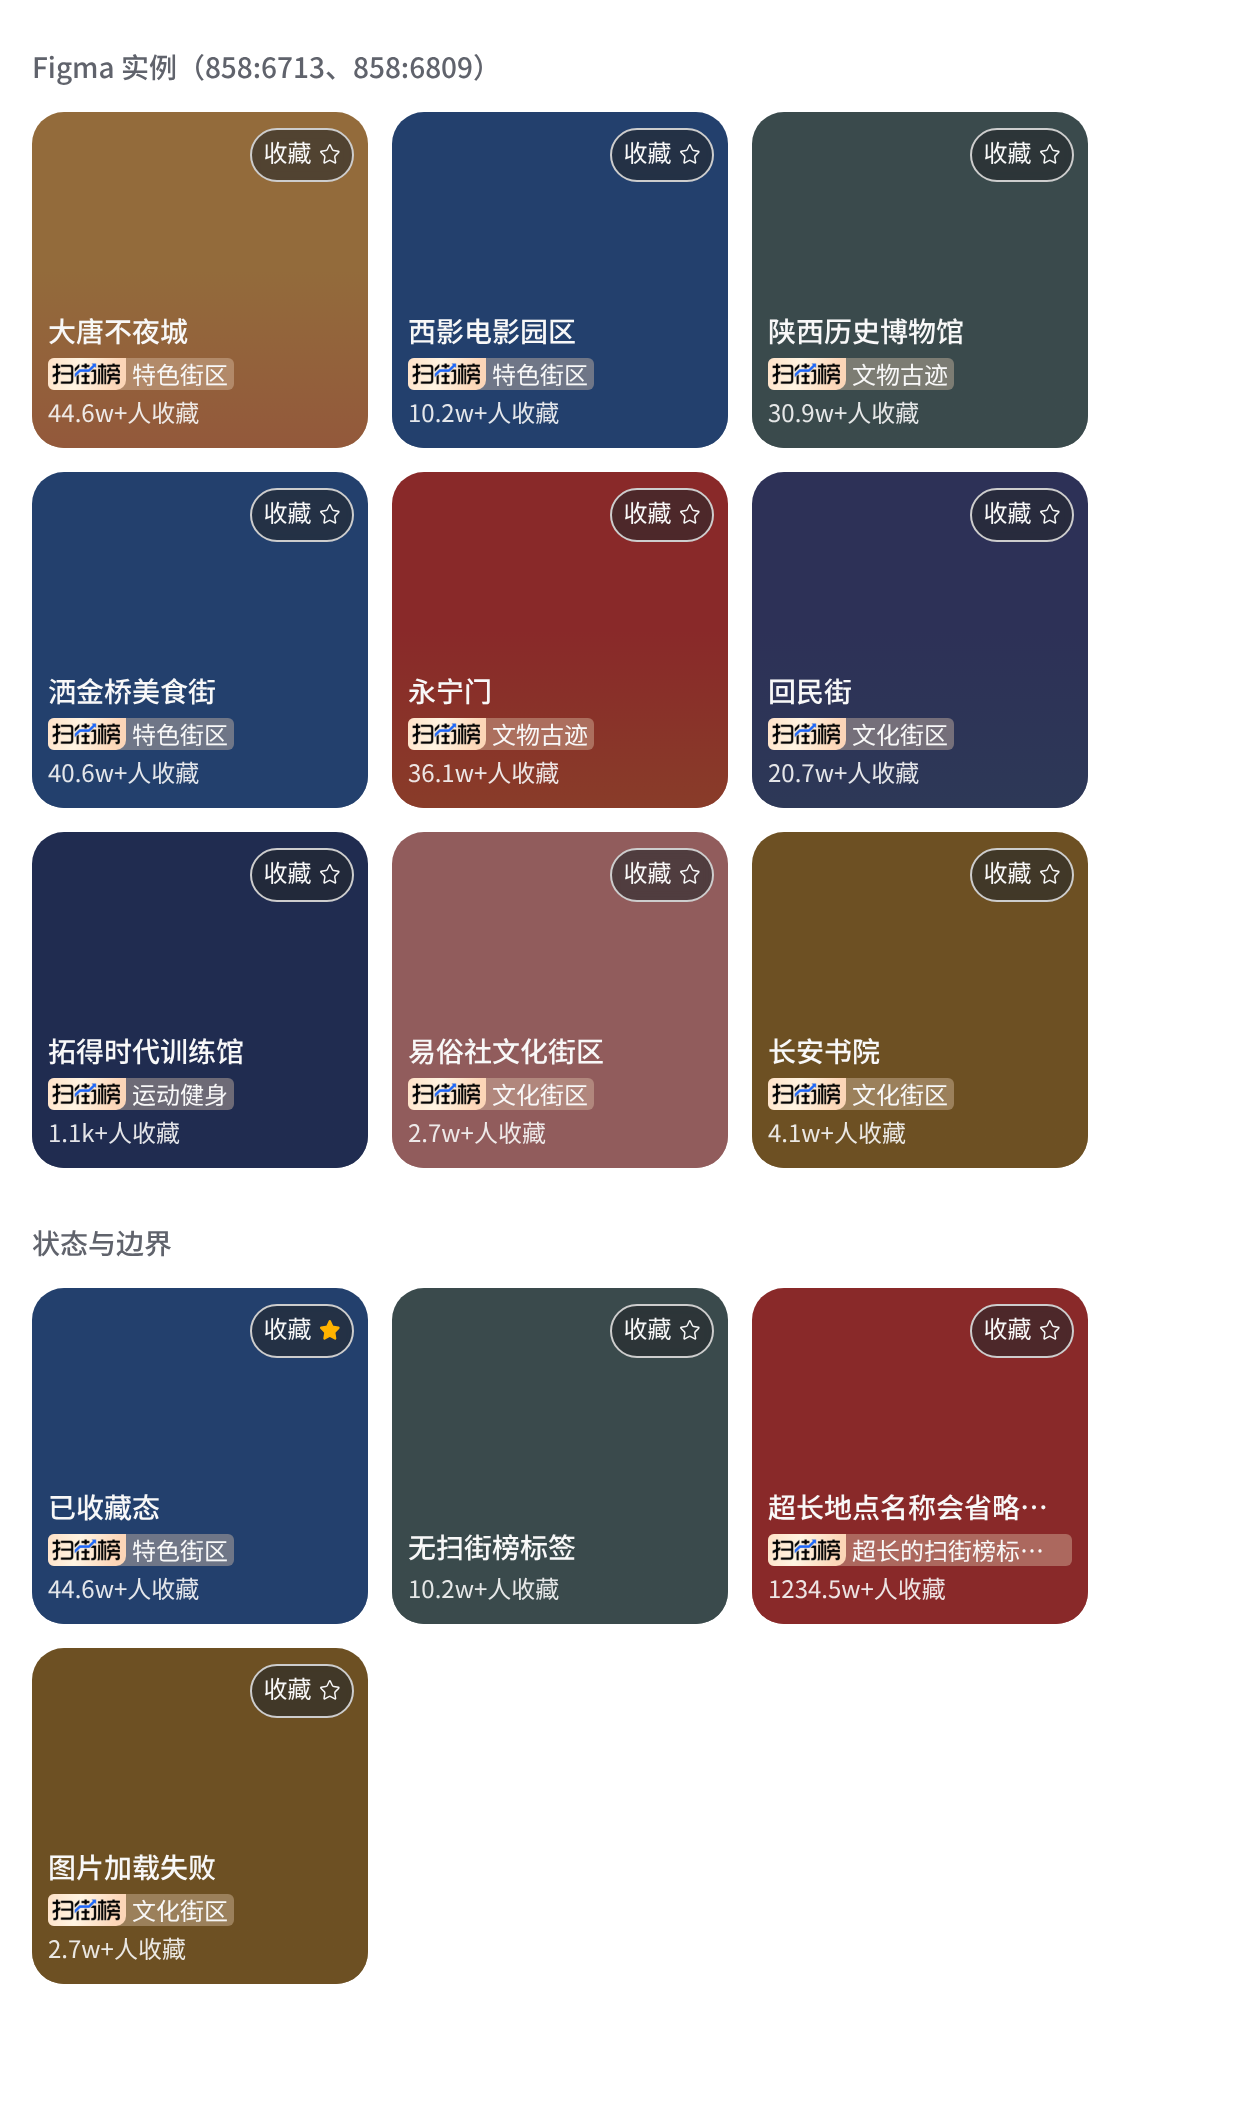
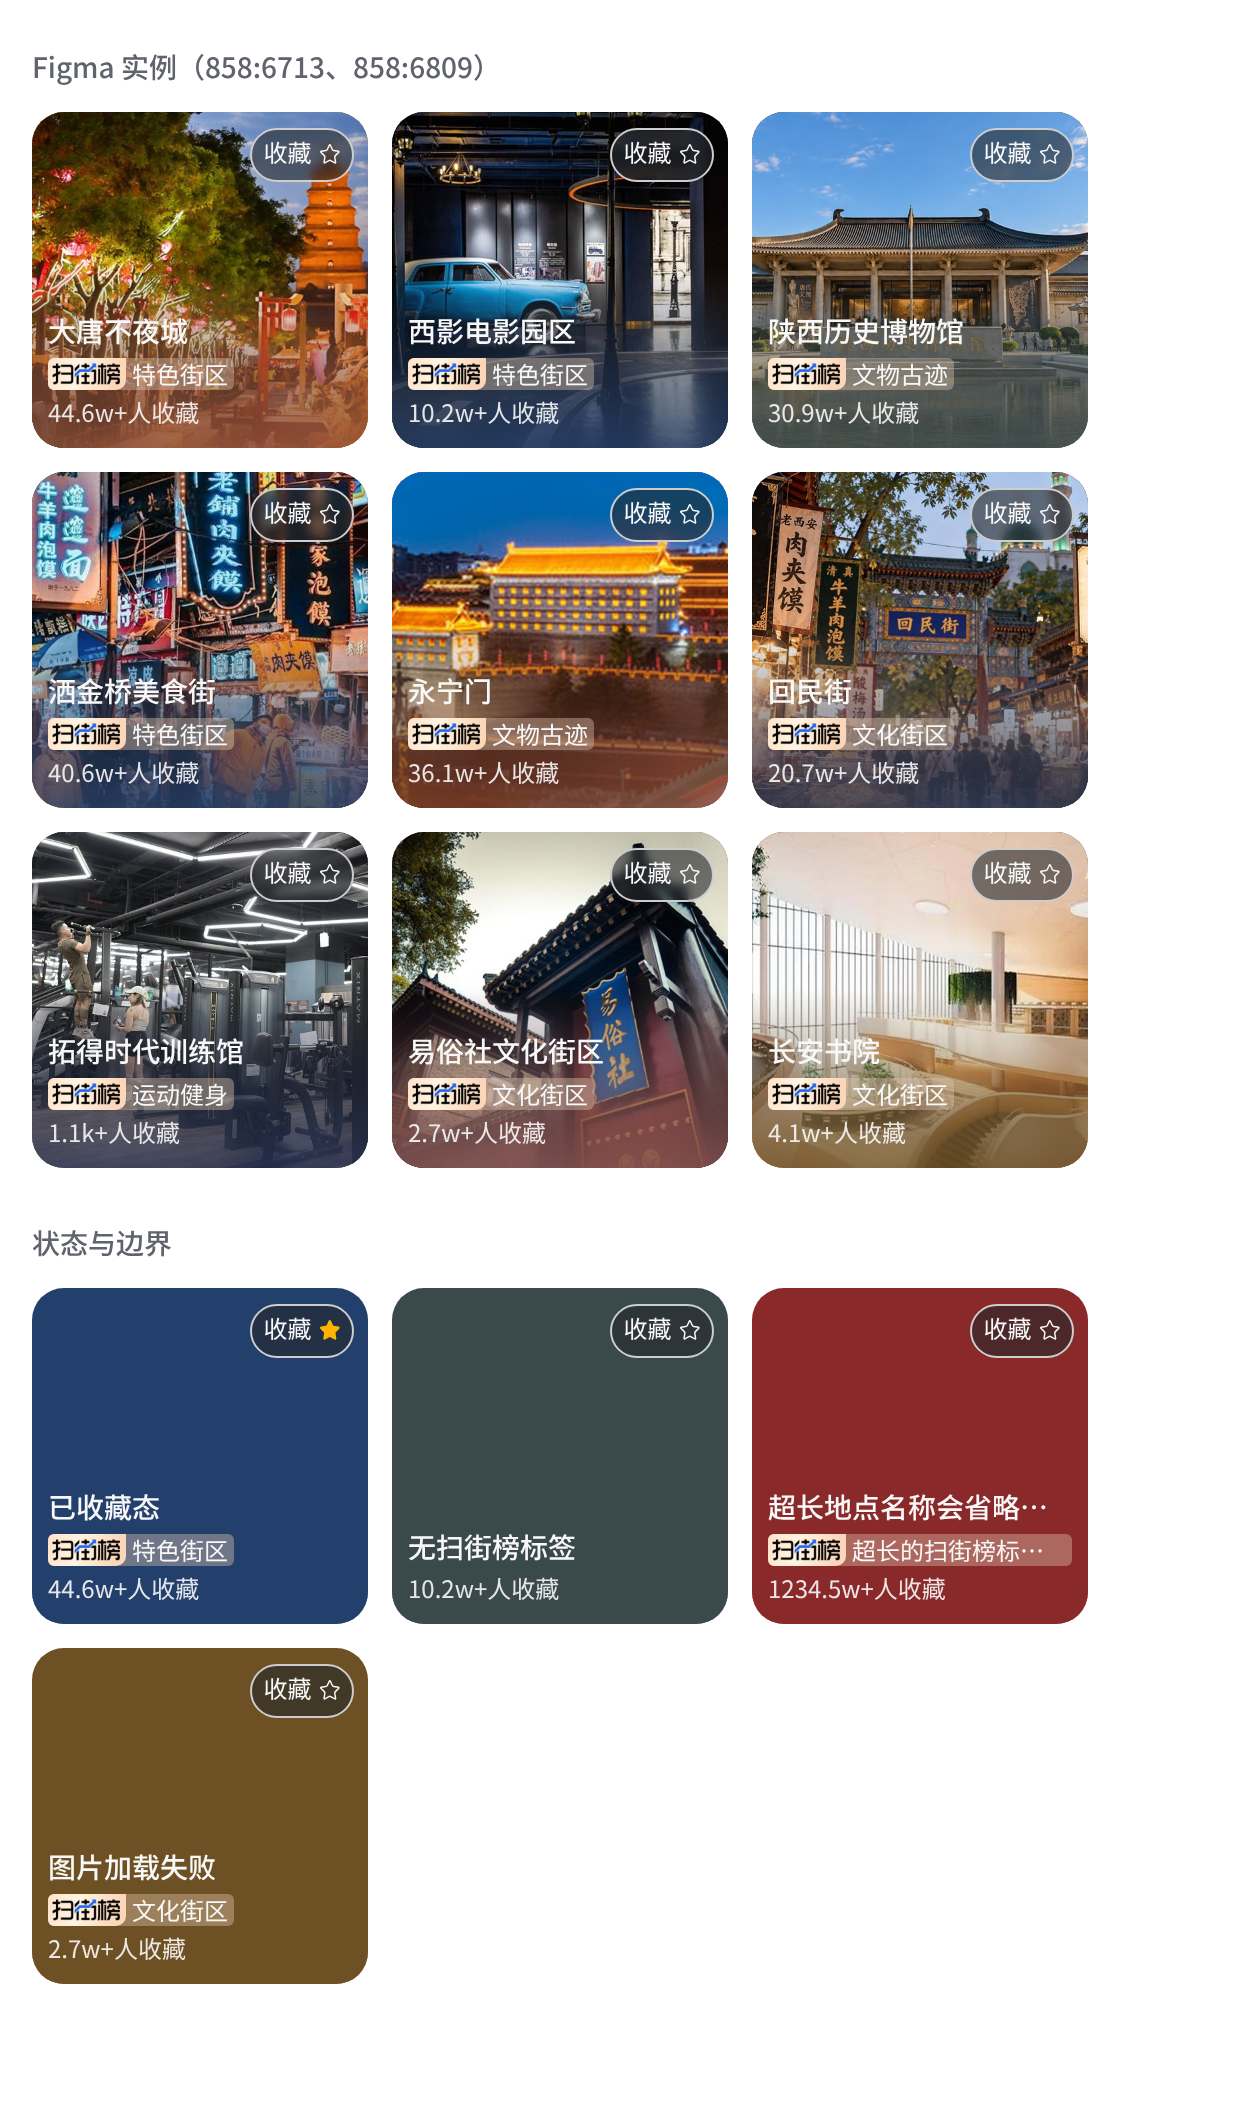
assets(poi-recommend): 补齐 9 张推荐卡原图，统一模糊参数
- assets/poi-recommend/samples/*.jpg：未模糊原图 189×189 @3x
- 与 Figma 截图逐张比对；回民街按其余卡片统一模糊参数

Claude-Session: https://claude.ai/code/session_01HmosH7j6FmjJ8BokUZHb64

diff --git a/README.md b/README.md
@@ -211,4 +211,6 @@ assets/      从 Figma 导出的素材
 
 各实例渐变色记录在 `tokens.json` → `component.poi-recommend.tints`。
 
-素材：`assets/poi-recommend/samples/*.jpg`，仅预览用，待补（需未模糊的原图，189×189 @3x）。
+9 个实例统一用同一套模糊参数（Figma 中「回民街」为半径 4、从顶部开始，已确认按其余卡片统一）。
+
+素材：`assets/poi-recommend/samples/*.jpg`，9 张未模糊原图 189×189 @3x，仅预览用。
